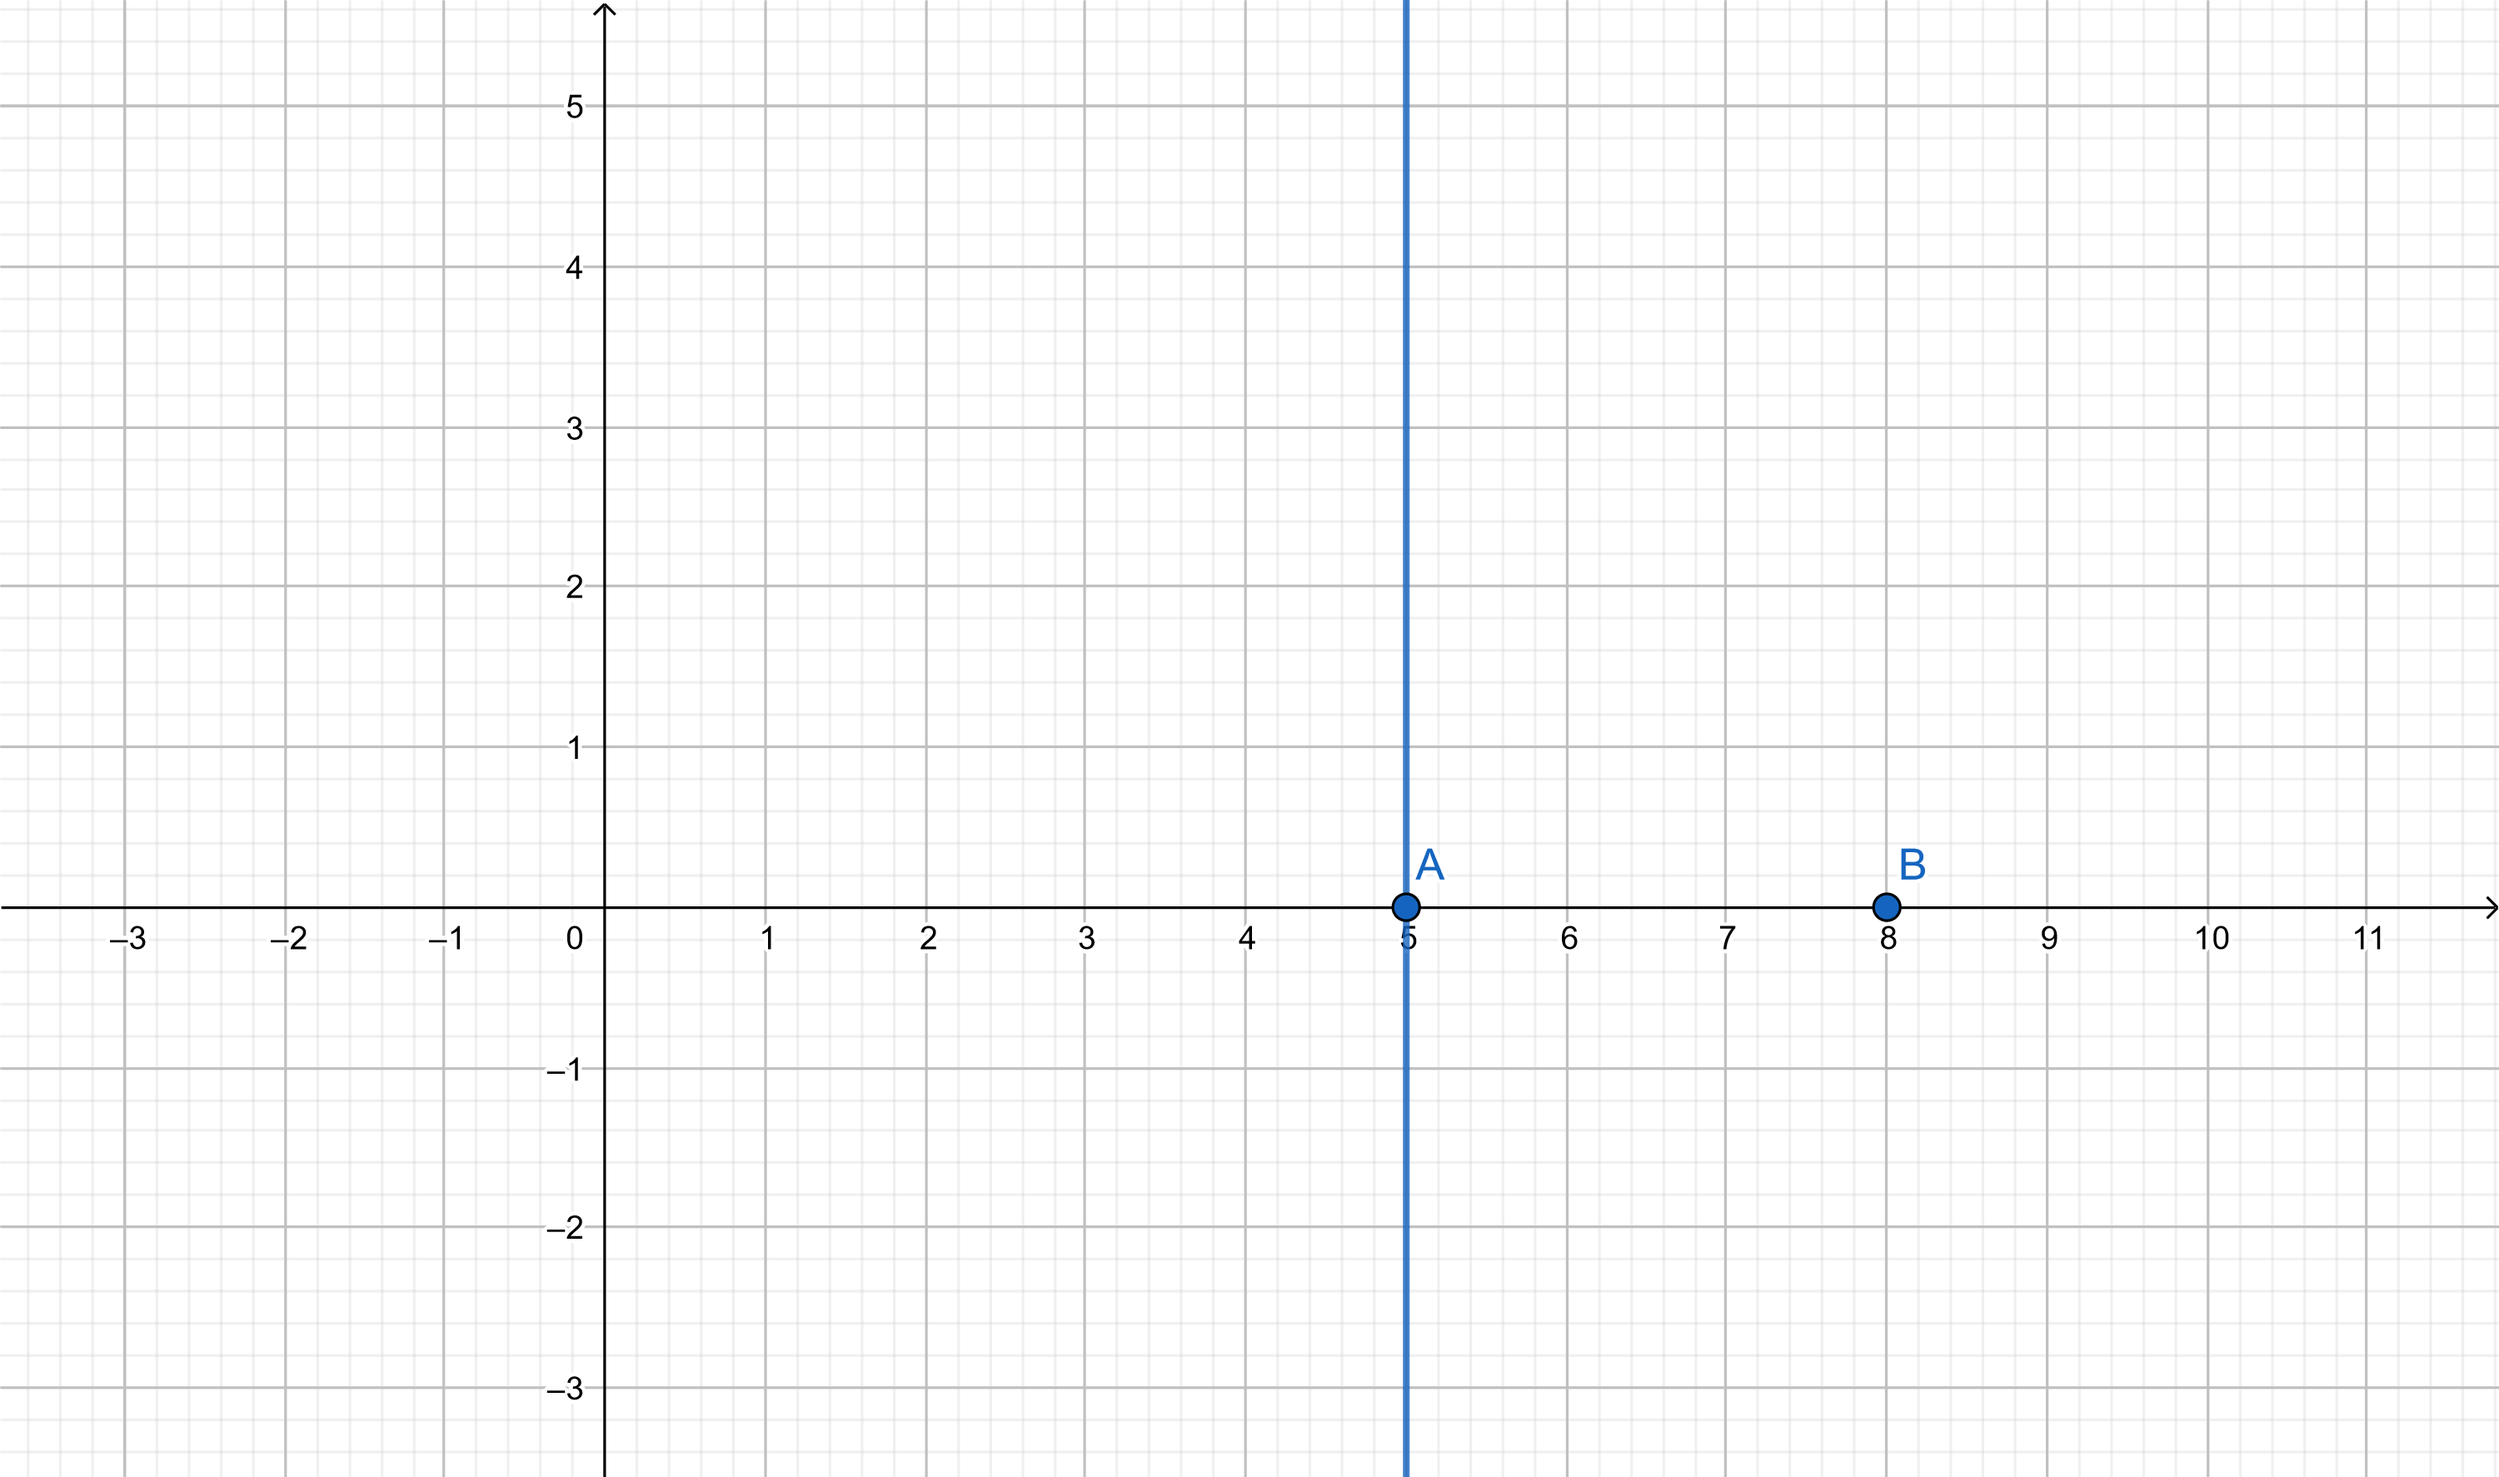
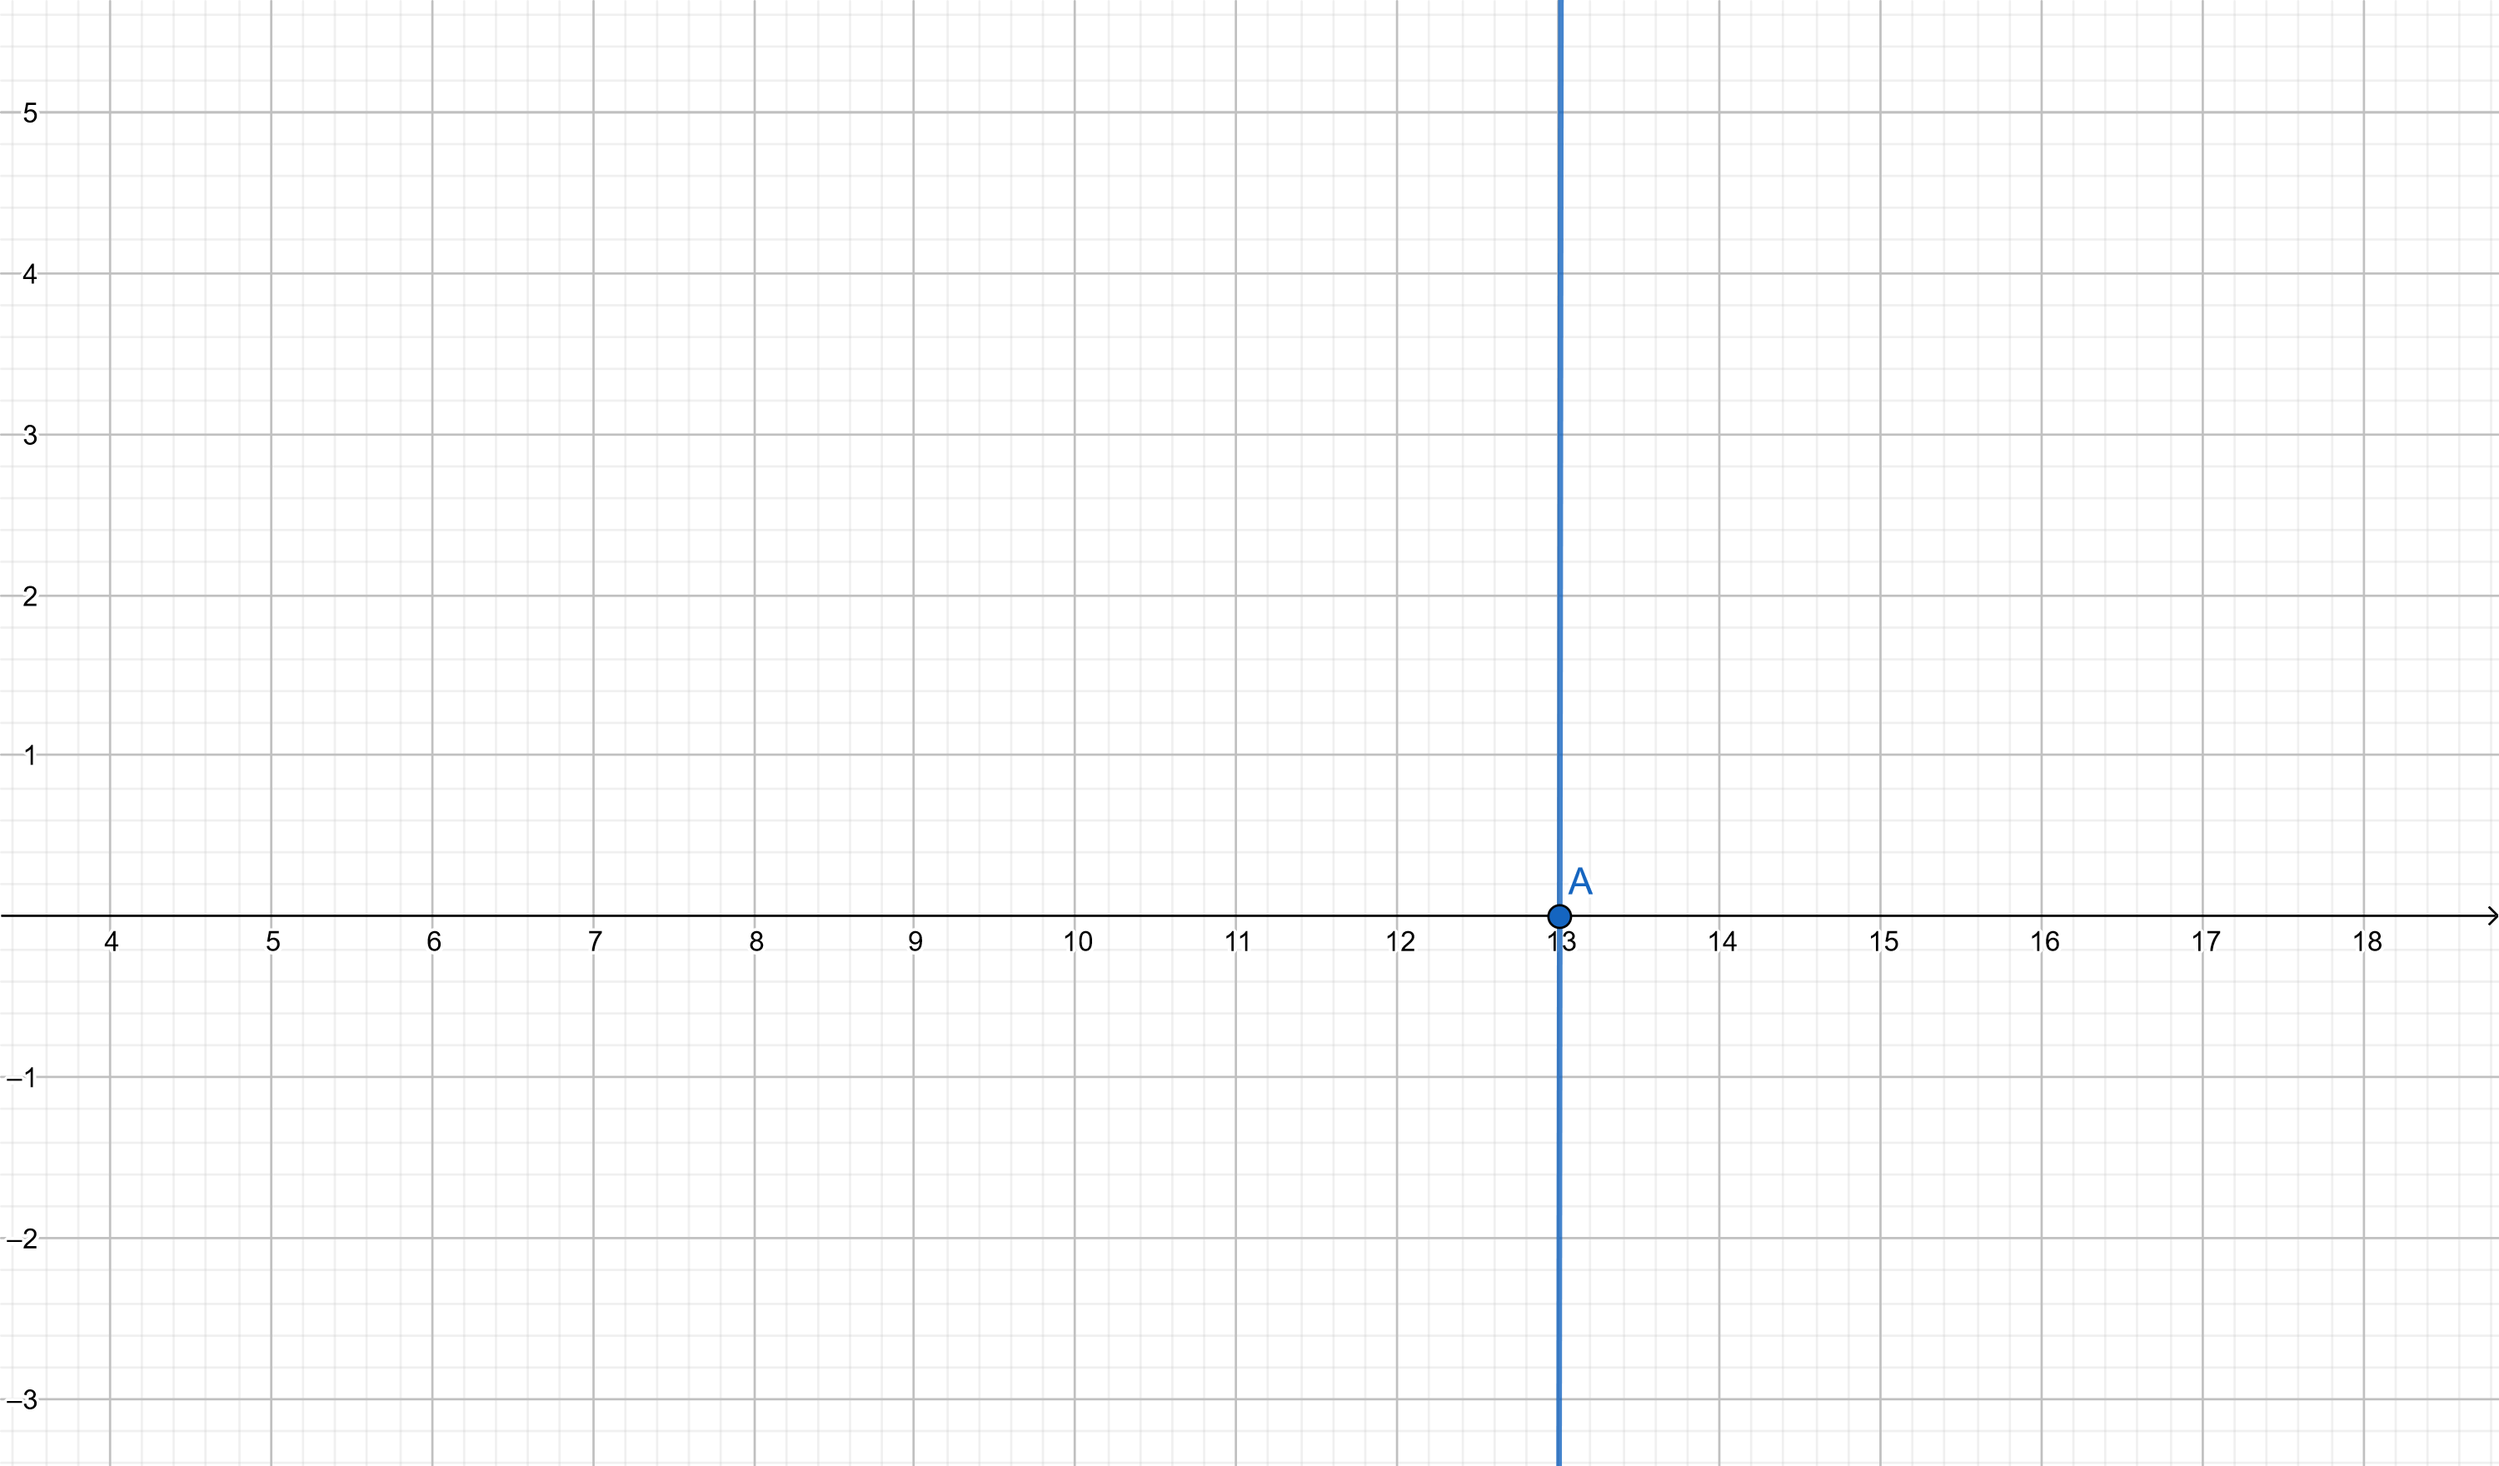
Corrección  Ej 10

diff --git a/Taller 3/Taller 3.tex b/Taller 3/Taller 3.tex
@@ -195,8 +195,15 @@ El radio $r_{1}\,=\,2$ y $r_{2}\,=\,9$ el centro de este es $z_{0}\,=\,1\,i$.\\
 \textcolor{ao(english)}{(\,9\,)} $\bf{\mathnormal{Im}\,(\overline{z}\,+\,3\,i)\,=\,6}$.
 
 \textcolor{ao(english)}{(\,10\,)} $\bf{\mathnormal{Re}\,(z\,+\,8)\,=\,5}$.\\
+Vanda vertical al infinito
 
-Asintota con valor de $5$.\\
+$$\mathnormal{Re}\,(z\,-\,8)\,=\,5 \quad\iff\quad  \mathnormal{Re}\,(x\,+\,i\,y\,-\,8)\,=\,5$$
+
+\textcolor{ao(english)}{\ding{47}} Solucinamos la parte $\mathnormal{Re}$ del conjunto.
+
+$$x\,-\,8\,=\,5 \quad\iff\quad x\,=\,5\,+\,8 \quad\iff\quad x\,=\,13 $$
+
+Asintota con valor de $13$.\\
 
 \begin{center}
     \includegraphics[width=10cm]{Gra-Ej-10.png}
